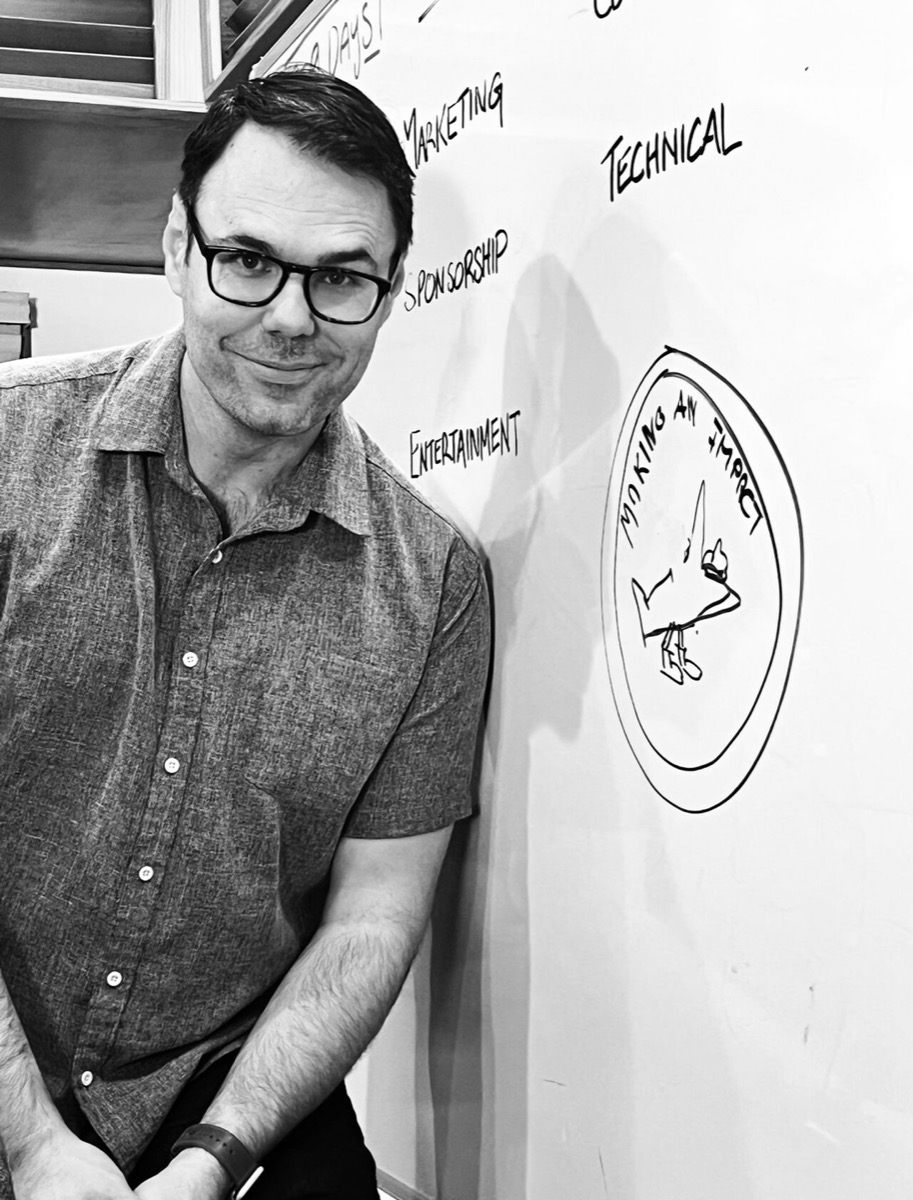
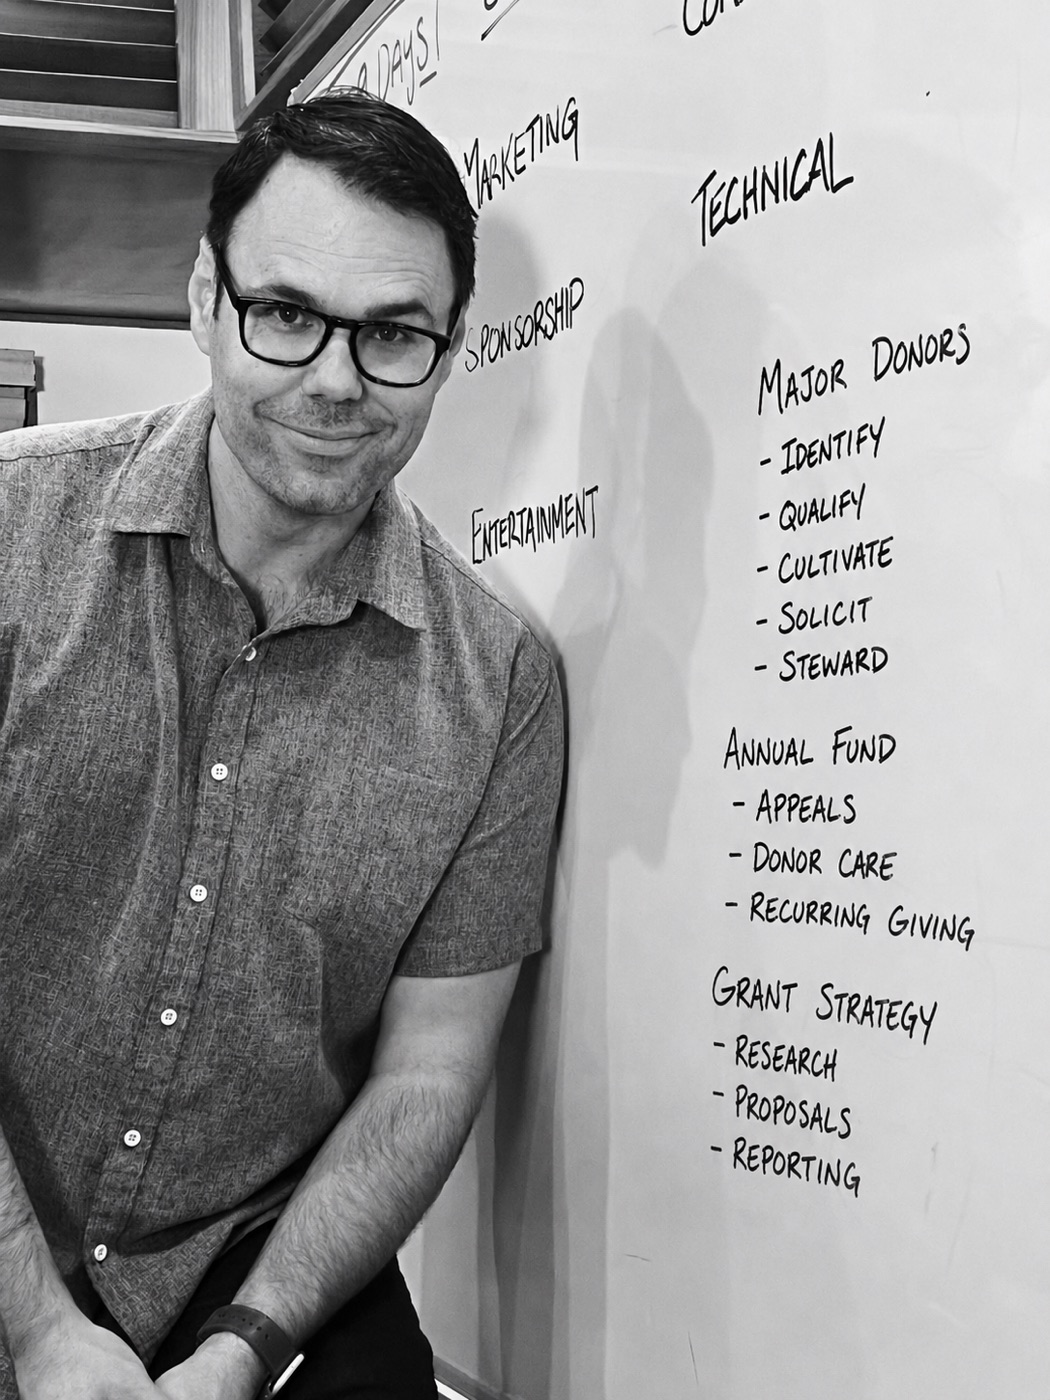
Switch contact email to [email redacted]; new About photo

diff --git a/index.html b/index.html
@@ -868,7 +868,7 @@
         </p>
         <p class="contact-alt">
           Prefer email? Reach us directly at
-          <a href="mailto:[email redacted]">[email redacted]</a>.
+          <a href="mailto:[email redacted]">[email redacted]</a>.
         </p>
         <figure class="contact-photo">
           <img class="photo" src="img/george-listening.jpg" alt="George Ricciardella listening during a conversation at an event">
@@ -909,7 +909,7 @@
       <a class="wordmark" href="#top">Second <em>Story</em></a>
       <a href="blog.html">Field Notes</a>
       <span>© 2026 Second Story Consulting</span>
-      <a href="mailto:[email redacted]">[email redacted]</a>
+      <a href="mailto:[email redacted]">[email redacted]</a>
     </div>
   </footer>
 
@@ -1024,7 +1024,7 @@
         }
       } catch {
         note.className = "form-note err";
-        note.textContent = "Something went wrong sending your message. Please try again, or email us directly at [email redacted].";
+        note.textContent = "Something went wrong sending your message. Please try again, or email us directly at [email redacted].";
       } finally {
         button.disabled = false;
         button.textContent = "Send message";

diff --git a/blog.html b/blog.html
@@ -172,7 +172,7 @@
     <div class="container footer-inner">
       <a class="wordmark" href="index.html">Second <em>Story</em></a>
       <span>© 2026 Second Story Consulting</span>
-      <a href="mailto:[email redacted]">[email redacted]</a>
+      <a href="mailto:[email redacted]">[email redacted]</a>
     </div>
   </footer>
 

diff --git a/post.html b/post.html
@@ -165,7 +165,7 @@
     <div class="container footer-inner">
       <a class="wordmark" href="index.html">Second <em>Story</em></a>
       <span>© 2026 Second Story Consulting</span>
-      <a href="mailto:[email redacted]">[email redacted]</a>
+      <a href="mailto:[email redacted]">[email redacted]</a>
     </div>
   </footer>
 